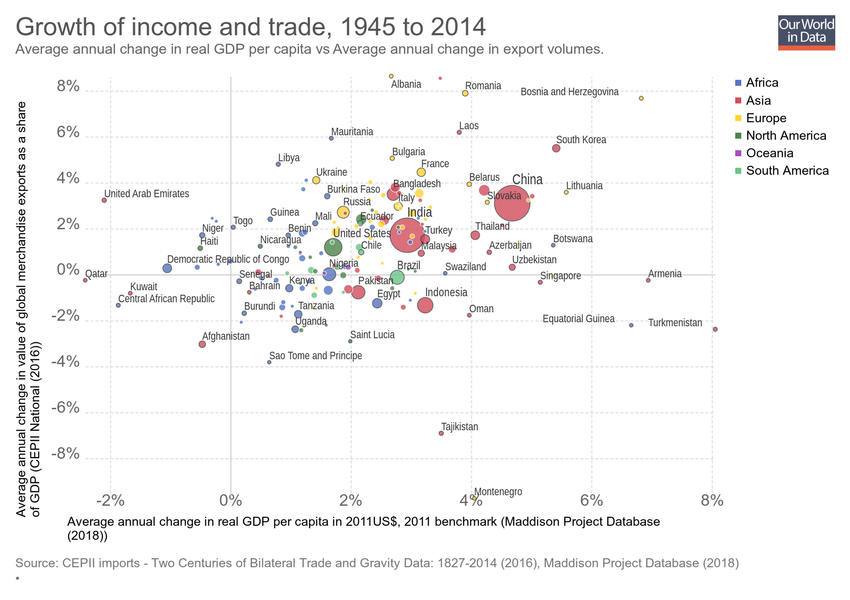
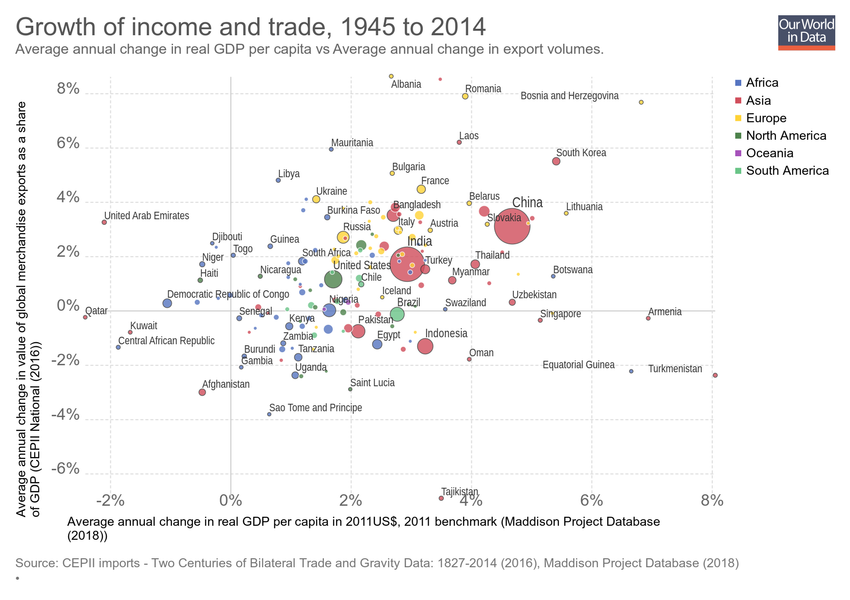
Updating chart growth-of-income-and-trade

diff --git a/grapher/growth-of-income-and-trade.html b/grapher/growth-of-income-and-trade.html
@@ -1,4 +1,4 @@
-<!doctype html><html><head><meta name="viewport" content="width=device-width, initial-scale=1" /><title>Growth of income and trade - Our World in Data</title><meta name="description" content="Average annual change in real GDP per capita vs Average annual change in export volumes." /><link rel="canonical" href="https://ourworldindata.org/grapher/growth-of-income-and-trade" /><meta property="fb:app_id" content="1149943818390250" /><meta property="og:url" content="https://ourworldindata.org/grapher/growth-of-income-and-trade" /><meta property="og:title" content="Growth of income and trade" /><meta property="og:description" content="Average annual change in real GDP per capita vs Average annual change in export volumes." /><meta property="og:image" content="https://ourworldindata.org/grapher/exports/growth-of-income-and-trade.png?v=2" /><meta property="og:image:width" content="850" /><meta property="og:image:height" content="600" /><meta property="og:site_name" content="Our World in Data" /><meta name="twitter:card" content="summary_large_image" /><meta name="twitter:site" content="@OurWorldInData" /><meta name="twitter:creator" content="@OurWorldInData" /><meta name="twitter:title" content="Growth of income and trade" /><meta name="twitter:description" content="Average annual change in real GDP per capita vs Average annual change in export volumes." /><meta name="twitter:image" content="https://ourworldindata.org/grapher/exports/growth-of-income-and-trade.png?v=2" /><style>
+<!doctype html><html><head><meta name="viewport" content="width=device-width, initial-scale=1" /><title>Growth of income and trade - Our World in Data</title><meta name="description" content="Average annual change in real GDP per capita vs Average annual change in export volumes." /><link rel="canonical" href="https://ourworldindata.org/grapher/growth-of-income-and-trade" /><meta property="fb:app_id" content="1149943818390250" /><meta property="og:url" content="https://ourworldindata.org/grapher/growth-of-income-and-trade" /><meta property="og:title" content="Growth of income and trade" /><meta property="og:description" content="Average annual change in real GDP per capita vs Average annual change in export volumes." /><meta property="og:image" content="https://ourworldindata.org/grapher/exports/growth-of-income-and-trade.png?v=3" /><meta property="og:image:width" content="850" /><meta property="og:image:height" content="600" /><meta property="og:site_name" content="Our World in Data" /><meta name="twitter:card" content="summary_large_image" /><meta name="twitter:site" content="@OurWorldInData" /><meta name="twitter:creator" content="@OurWorldInData" /><meta name="twitter:title" content="Growth of income and trade" /><meta name="twitter:description" content="Average annual change in real GDP per capita vs Average annual change in export volumes." /><meta name="twitter:image" content="https://ourworldindata.org/grapher/exports/growth-of-income-and-trade.png?v=3" /><style>
         html, body {
             height: 100%;
             margin: 0;
@@ -20,8 +20,8 @@
         }
     </style><noscript><style>
                     figure { display: none !important; }
-                </style></noscript><link rel="stylesheet" href="https://ourworldindata.org/grapher/assets/commons.bundle.dcbbe53805c487d5e57617b10ac73a8a.css" /><link rel="preload" href="/grapher/data/variables/93834+66391+72+123.json?v=2" as="fetch" crossorigin /></head><body class="singleChart"><figure data-grapher-src="/grapher/growth-of-income-and-trade"></figure><noscript id="fallback"><img src="/grapher/exports/growth-of-income-and-trade.svg" /><p>Interactive visualization requires JavaScript</p></noscript><script src="https://cdn.polyfill.io/v2/polyfill.min.js?features=es6,fetch"></script><script src="https://ourworldindata.org/grapher/assets/commons.bundle.0885398ca21a9d555396.js"></script><script src="https://ourworldindata.org/grapher/assets/charts.bundle.0885398ca21a9d555396.js"></script><script>
-        var jsonConfig = {"id":2846,"map":{"projection":"World","colorSchemeLabels":[],"colorSchemeValues":[],"customNumericColors":[],"customCategoryColors":{},"customCategoryLabels":{},"customHiddenCategories":{}},"tab":"chart","slug":"growth-of-income-and-trade","type":"ScatterPlot","title":"Growth of income and trade","xAxis":{"scaleType":"log","canChangeScaleType":true},"yAxis":{"min":0,"scaleType":"linear"},"maxTime":2014,"minTime":1945,"version":2,"subtitle":"Average annual change in real GDP per capita vs Average annual change in export volumes.","hasMapTab":false,"stackMode":"relative","dimensions":[{"display":{},"property":"y","variableId":93834},{"display":{},"property":"x","variableId":66391},{"display":{},"property":"size","variableId":72},{"display":{},"property":"color","variableId":123}],"hasChartTab":true,"isPublished":true,"selectedData":[],"excludedEntities":[128],"compareEndPointsOnly":true};
+                </style></noscript><link rel="stylesheet" href="https://ourworldindata.org/grapher/assets/commons.bundle.dcbbe53805c487d5e57617b10ac73a8a.css" /><link rel="preload" href="/grapher/data/variables/93834+66391+72+123.json?v=3" as="fetch" crossorigin /></head><body class="singleChart"><figure data-grapher-src="/grapher/growth-of-income-and-trade"></figure><noscript id="fallback"><img src="/grapher/exports/growth-of-income-and-trade.svg" /><p>Interactive visualization requires JavaScript</p></noscript><script src="https://cdn.polyfill.io/v2/polyfill.min.js?features=es6,fetch"></script><script src="https://ourworldindata.org/grapher/assets/commons.bundle.0885398ca21a9d555396.js"></script><script src="https://ourworldindata.org/grapher/assets/charts.bundle.0885398ca21a9d555396.js"></script><script>
+        var jsonConfig = {"id":2846,"map":{"projection":"World","colorSchemeLabels":[],"colorSchemeValues":[],"customNumericColors":[],"customCategoryColors":{},"customCategoryLabels":{},"customHiddenCategories":{}},"tab":"chart","slug":"growth-of-income-and-trade","type":"ScatterPlot","title":"Growth of income and trade","xAxis":{"scaleType":"log","canChangeScaleType":true},"yAxis":{"min":0,"scaleType":"linear"},"maxTime":2014,"minTime":1945,"version":3,"subtitle":"Average annual change in real GDP per capita vs Average annual change in export volumes.","hasMapTab":false,"stackMode":"relative","dimensions":[{"display":{},"property":"y","variableId":93834},{"display":{},"property":"x","variableId":66391},{"display":{},"property":"size","variableId":72},{"display":{},"property":"color","variableId":123}],"hasChartTab":true,"isPublished":true,"selectedData":[],"excludedEntities":[128,215],"compareEndPointsOnly":true};
         var figure = document.getElementsByTagName("figure")[0];
         try {
             window.App = {};
